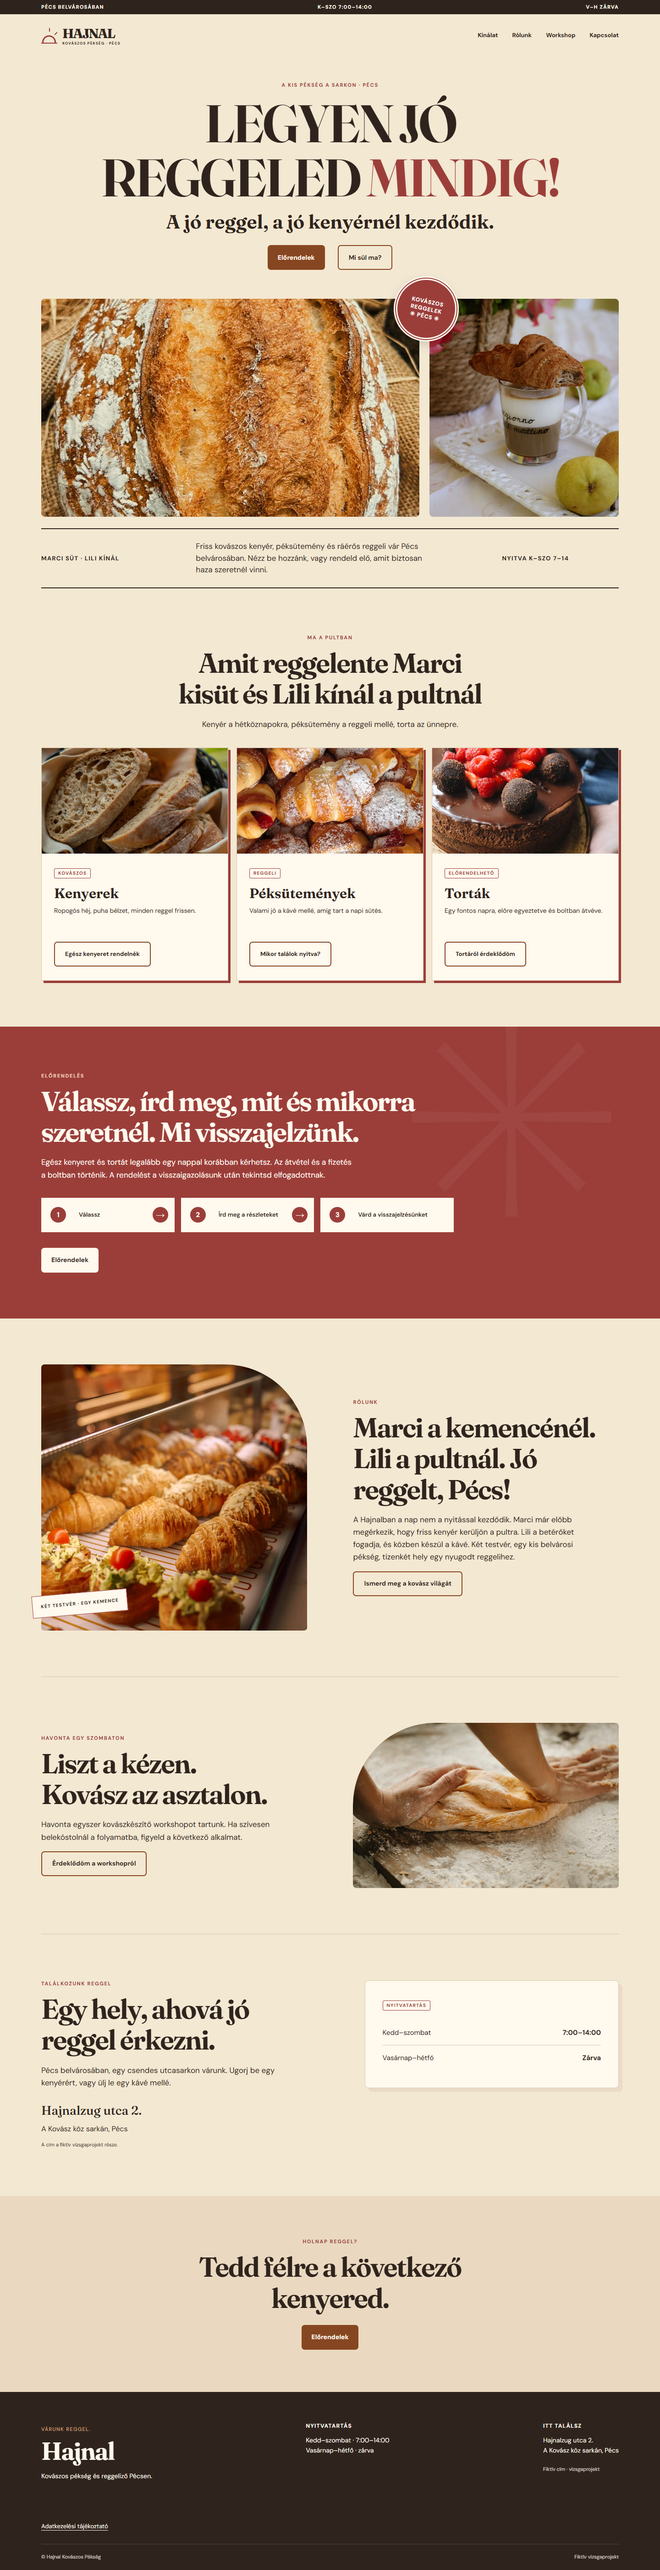
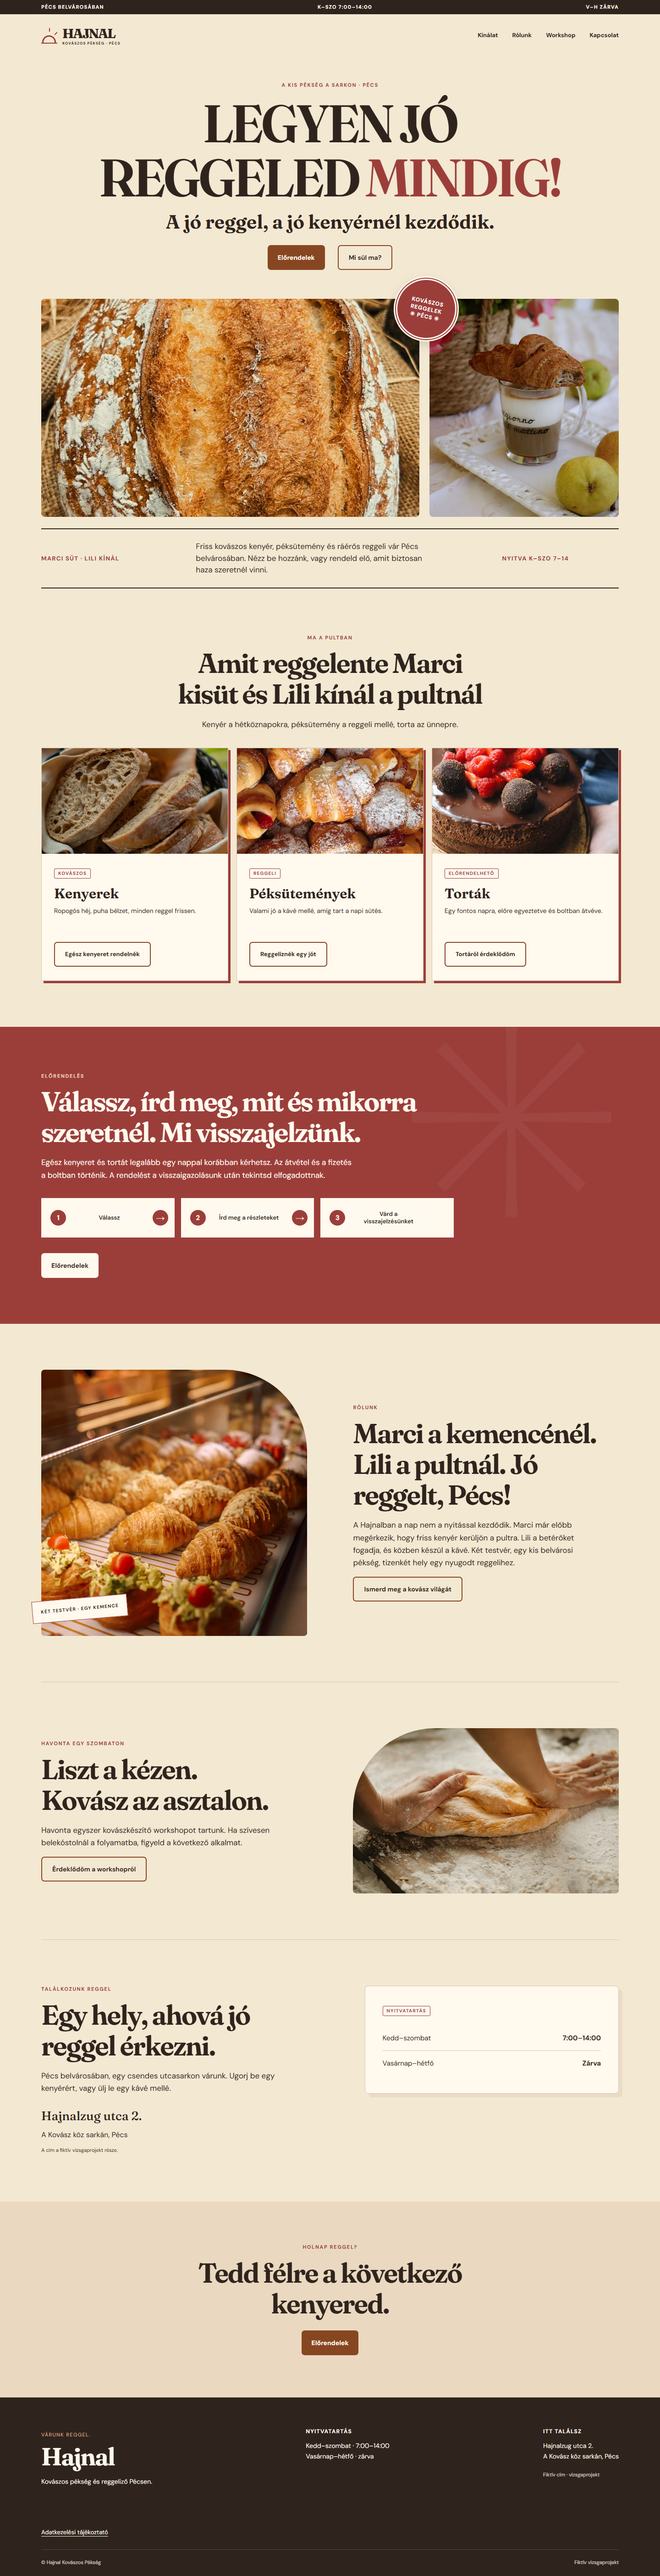
Polish homepage copy and order steps

diff --git a/weboldal/hajnal-site/index.html b/weboldal/hajnal-site/index.html
@@ -5,7 +5,7 @@
       <nav id="main-nav" aria-label="Fő navigáció"><a href="kinalat.html">Kínálat</a><a href="rolunk.html">Rólunk</a><a href="workshop.html">Workshop</a><a href="kapcsolat.html">Kapcsolat</a></nav>
     </header><main id="tartalom"><section class="hero hero-poster"><div class="poster-heading"><span class="eyebrow">A KIS PÉKSÉG A SARKON · PÉCS</span><h1>Legyen jó reggeled <em>mindig!</em></h1><p class="poster-lead">A jó reggel, a jó kenyérnél kezdődik.</p><div class="hero-actions"><a class="button" href="elorendeles.html">Előrendelek</a><a class="button button-secondary" href="kinalat.html">Mi sül ma?</a></div></div><div class="poster-collage"><div class="poster-image poster-main"><img src="assets/bread.webp" alt="Kovászos kenyér közelről" fetchpriority="high"></div><div class="poster-image poster-side"><img src="assets/coffee.webp" alt="Kávé és péksütemény" loading="lazy"></div><div class="round-seal" aria-hidden="true">KOVÁSZOS<br>REGGELEK<br>✳ PÉCS ✳</div></div><div class="poster-bottom"><span>MARCI SÜT · LILI KÍNÁL</span><p>Friss kovászos kenyér, péksütemény és ráérős reggeli vár Pécs belvárosában. Nézz be hozzánk, vagy rendeld elő, amit biztosan haza szeretnél vinni.</p><span>NYITVA K–SZO 7–14</span></div></section><section class="section offerings" id="kinalat"><div class="section-head"><span class="eyebrow">MA A PULTBAN</span><h2>Amit reggelente Marci kisüt és Lili kínál a pultnál</h2><p>Kenyér a hétköznapokra, péksütemény a reggeli mellé, torta az ünnepre.</p></div><div class="offering-grid">
       <article class="offer-card"><div class="offer-photo"><img src="assets/slice.webp" alt="Felszeletelt kovászos kenyér" loading="lazy"></div><div class="offer-body"><span class="stamp">KOVÁSZOS</span><h3>Kenyerek</h3><p>Ropogós héj, puha bélzet, minden reggel frissen.</p><a class="button button-secondary" href="elorendeles.html">Egész kenyeret rendelnék</a></div></article>
-      <article class="offer-card"><div class="offer-photo"><img src="assets/pastry.webp" alt="Frissen sült péksütemények" loading="lazy"></div><div class="offer-body"><span class="stamp">REGGELI</span><h3>Péksütemények</h3><p>Valami jó a kávé mellé, amíg tart a napi sütés.</p><a class="button button-secondary" href="kapcsolat.html">Mikor találok nyitva?</a></div></article>
+      <article class="offer-card"><div class="offer-photo"><img src="assets/pastry.webp" alt="Frissen sült péksütemények" loading="lazy"></div><div class="offer-body"><span class="stamp">REGGELI</span><h3>Péksütemények</h3><p>Valami jó a kávé mellé, amíg tart a napi sütés.</p><a class="button button-secondary" href="kapcsolat.html">Reggeliznék egy jót</a></div></article>
       <article class="offer-card"><div class="offer-photo"><img src="assets/cake.webp" alt="Málnás csokoládétorta" loading="lazy"></div><div class="offer-body"><span class="stamp">ELŐRENDELHETŐ</span><h3>Torták</h3><p>Egy fontos napra, előre egyeztetve és boltban átvéve.</p><a class="button button-secondary" href="elorendeles.html">Tortáról érdeklődöm</a></div></article></div></section>
     <section class="section order-section" id="elorendeles"><div class="order-ornament" aria-hidden="true">✳</div><div class="order-copy"><span class="eyebrow">ELŐRENDELÉS</span><h2>Válassz, írd meg, mit és mikorra szeretnél. Mi visszajelzünk.</h2><p>Egész kenyeret és tortát legalább egy nappal korábban kérhetsz. Az átvétel és a fizetés a boltban történik. A rendelést a visszaigazolásunk után tekintsd elfogadottnak.</p><ol class="steps" aria-label="Az előrendelés menete"><li><b>1</b><span>Válassz</span></li><li><b>2</b><span>Írd meg a részleteket</span></li><li><b>3</b><span>Várd a visszajelzésünket</span></li></ol><a class="button button-light" href="elorendeles.html">Előrendelek</a></div></section>
     <section class="section about-section" id="rolunk"><div class="about-photo"><img src="assets/bakery-counter.webp" alt="Friss péksütemények a pékség pultjában" loading="lazy"><span class="photo-note">KÉT TESTVÉR · EGY KEMENCE</span></div><div class="about-copy"><span class="eyebrow">RÓLUNK</span><h2>Marci a kemencénél. Lili a pultnál. Jó reggelt, Pécs!</h2><p>A Hajnalban a nap nem a nyitással kezdődik. Marci már előbb megérkezik, hogy friss kenyér kerüljön a pultra. Lili a betérőket fogadja, és közben készül a kávé. Két testvér, egy kis belvárosi pékség, tizenkét hely egy nyugodt reggelihez.</p><a class="button button-secondary" href="workshop.html">Ismerd meg a kovász világát</a></div></section>

diff --git a/weboldal/hajnal-site/pages.css b/weboldal/hajnal-site/pages.css
@@ -13,9 +13,10 @@
 .site-final .button-secondary:hover{background:var(--crust);color:var(--cream)}
 .site-final .offer-card .button-secondary{margin-top:17px;font-size:13px}
 .site-final .steps{display:grid;grid-template-columns:repeat(3,minmax(0,1fr));gap:14px;list-style:none;padding:0;margin:36px 0 34px;max-width:900px}
-.site-final .steps li{position:relative;display:flex;align-items:center;gap:12px;min-width:0;min-height:75px;padding:14px 54px 14px 18px;background:var(--cream);color:var(--ink);border:2px solid var(--cream);font-size:14px;font-weight:700;line-height:1.25}
-.site-final .steps li:last-child{padding-right:18px}
+.site-final .steps li{position:relative;display:grid;grid-template-columns:34px minmax(0,1fr) 34px;align-items:center;gap:12px;min-width:0;min-height:75px;padding:14px 12px 14px 18px;background:var(--cream);color:var(--ink);border:2px solid var(--cream);font-size:14px;font-weight:700;line-height:1.25}
+.site-final .steps li span{grid-column:2;text-align:center}
 .site-final .steps li:not(:last-child):after{content:'→';position:absolute;right:12px;top:50%;transform:translateY(-50%);width:34px;height:34px;display:grid;place-items:center;border-radius:50%;background:var(--cherry);color:var(--cream);font-size:19px}
 .site-final .steps b{display:grid;place-items:center;flex:none;width:34px;height:34px;margin:0;border-radius:50%;background:var(--cherry);color:var(--cream);font-size:15px}
-@media(max-width:900px){.site-final .poster-bottom{grid-template-columns:1fr 2fr}.site-final .steps li{padding:12px 46px 12px 12px;font-size:12px}.site-final .steps li:not(:last-child):after{right:7px;width:28px;height:28px}.site-final .steps b{width:28px;height:28px}}
-@media(max-width:680px){.site-final .poster-bottom{display:block;min-height:0;padding:20px 0}.site-final .poster-bottom p{font-size:16px;margin-top:9px}.site-final .steps{grid-template-columns:1fr;gap:12px}.site-final .steps li{min-height:60px;padding:12px 54px 12px 18px;font-size:14px}.site-final .steps li:not(:last-child):after{content:'↓';right:12px;width:34px;height:34px}.site-final .hero-actions{justify-content:center;gap:10px}.site-final .hero-actions .button{gap:10px;padding-left:15px;padding-right:15px}}
+@media(max-width:900px){.site-final .poster-bottom{grid-template-columns:1fr 2fr}.site-final .steps li{grid-template-columns:28px minmax(0,1fr) 28px;padding:12px;font-size:12px}.site-final .steps li:not(:last-child):after{right:12px;width:28px;height:28px}.site-final .steps b{width:28px;height:28px}}
+@media(max-width:680px){.site-final .poster-bottom{display:block;min-height:0;padding:20px 0}.site-final .poster-bottom p{font-size:16px;margin-top:9px}.site-final .steps{grid-template-columns:1fr;gap:12px}.site-final .steps li{grid-template-columns:34px minmax(0,1fr) 34px;min-height:60px;padding:12px 18px;font-size:14px}.site-final .steps li:not(:last-child):after{content:'↓';right:18px;width:34px;height:34px}.site-final .hero-actions{justify-content:center;gap:10px}.site-final .hero-actions .button{gap:10px;padding-left:15px;padding-right:15px}}
+.site-final .poster-bottom span{color:var(--cherry)}

diff --git a/weboldal/pages.css b/weboldal/pages.css
@@ -13,9 +13,10 @@
 .site-final .button-secondary:hover{background:var(--crust);color:var(--cream)}
 .site-final .offer-card .button-secondary{margin-top:17px;font-size:13px}
 .site-final .steps{display:grid;grid-template-columns:repeat(3,minmax(0,1fr));gap:14px;list-style:none;padding:0;margin:36px 0 34px;max-width:900px}
-.site-final .steps li{position:relative;display:flex;align-items:center;gap:12px;min-width:0;min-height:75px;padding:14px 54px 14px 18px;background:var(--cream);color:var(--ink);border:2px solid var(--cream);font-size:14px;font-weight:700;line-height:1.25}
-.site-final .steps li:last-child{padding-right:18px}
+.site-final .steps li{position:relative;display:grid;grid-template-columns:34px minmax(0,1fr) 34px;align-items:center;gap:12px;min-width:0;min-height:75px;padding:14px 12px 14px 18px;background:var(--cream);color:var(--ink);border:2px solid var(--cream);font-size:14px;font-weight:700;line-height:1.25}
+.site-final .steps li span{grid-column:2;text-align:center}
 .site-final .steps li:not(:last-child):after{content:'→';position:absolute;right:12px;top:50%;transform:translateY(-50%);width:34px;height:34px;display:grid;place-items:center;border-radius:50%;background:var(--cherry);color:var(--cream);font-size:19px}
 .site-final .steps b{display:grid;place-items:center;flex:none;width:34px;height:34px;margin:0;border-radius:50%;background:var(--cherry);color:var(--cream);font-size:15px}
-@media(max-width:900px){.site-final .poster-bottom{grid-template-columns:1fr 2fr}.site-final .steps li{padding:12px 46px 12px 12px;font-size:12px}.site-final .steps li:not(:last-child):after{right:7px;width:28px;height:28px}.site-final .steps b{width:28px;height:28px}}
-@media(max-width:680px){.site-final .poster-bottom{display:block;min-height:0;padding:20px 0}.site-final .poster-bottom p{font-size:16px;margin-top:9px}.site-final .steps{grid-template-columns:1fr;gap:12px}.site-final .steps li{min-height:60px;padding:12px 54px 12px 18px;font-size:14px}.site-final .steps li:not(:last-child):after{content:'↓';right:12px;width:34px;height:34px}.site-final .hero-actions{justify-content:center;gap:10px}.site-final .hero-actions .button{gap:10px;padding-left:15px;padding-right:15px}}
+@media(max-width:900px){.site-final .poster-bottom{grid-template-columns:1fr 2fr}.site-final .steps li{grid-template-columns:28px minmax(0,1fr) 28px;padding:12px;font-size:12px}.site-final .steps li:not(:last-child):after{right:12px;width:28px;height:28px}.site-final .steps b{width:28px;height:28px}}
+@media(max-width:680px){.site-final .poster-bottom{display:block;min-height:0;padding:20px 0}.site-final .poster-bottom p{font-size:16px;margin-top:9px}.site-final .steps{grid-template-columns:1fr;gap:12px}.site-final .steps li{grid-template-columns:34px minmax(0,1fr) 34px;min-height:60px;padding:12px 18px;font-size:14px}.site-final .steps li:not(:last-child):after{content:'↓';right:18px;width:34px;height:34px}.site-final .hero-actions{justify-content:center;gap:10px}.site-final .hero-actions .button{gap:10px;padding-left:15px;padding-right:15px}}
+.site-final .poster-bottom span{color:var(--cherry)}

diff --git a/weboldal/build_site.py b/weboldal/build_site.py
@@ -46,6 +46,7 @@ home = home.replace('Nézd meg, hol veheted át', 'Előrendelést indítok').rep
 home = home.replace('class="text-link"', 'class="button button-secondary"')
 home = home.replace('class="button button-outline"', 'class="button button-secondary"')
 home = re.sub(r'(<div class="offer-body">.*?<a) href=', r'\1 class="button button-secondary" href=', home, flags=re.S)
+home = home.replace('Mikor találok nyitva?', 'Reggeliznék egy jót')
 home = re.sub(r'(<span class="eyebrow">)0[1-5] / ', r'\1', home)
 home = home.replace('<div class="steps"><span><b>01</b> Válassz</span><span><b>02</b> Írd meg a részleteket</span><span><b>03</b> Várd a visszajelzésünket</span></div>', '<ol class="steps" aria-label="Az előrendelés menete"><li><b>1</b><span>Válassz</span></li><li><b>2</b><span>Írd meg a részleteket</span></li><li><b>3</b><span>Várd a visszajelzésünket</span></li></ol>')
 home = home.replace('>Előrendelést indítok <span', '>Előrendelek <span')
